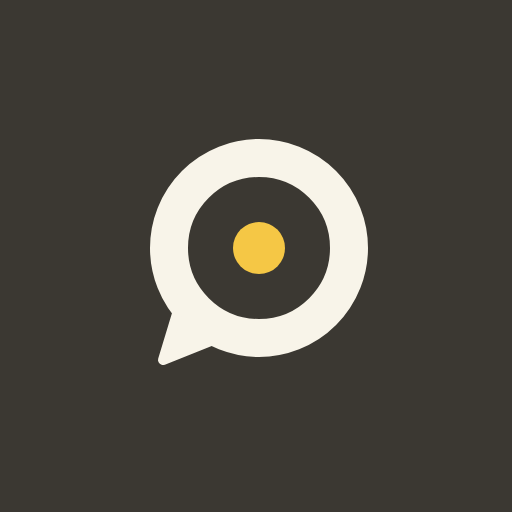
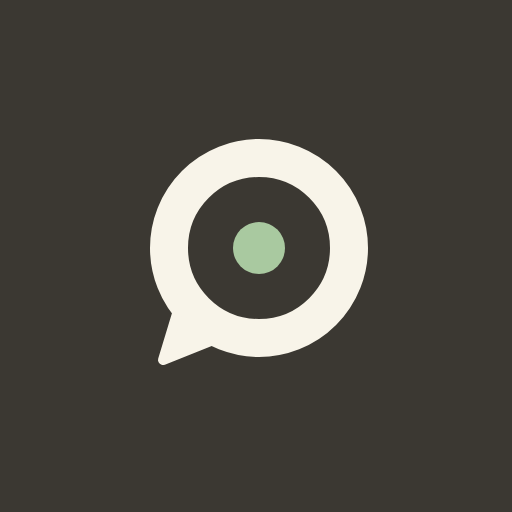
Sage green instead of gold as the accent colour
- Accent #7da36f on light, #a9c9a0 on dark (dark mode primary, buttons, filters, tab bar); label and banner tint #dce8d6
- Logo dot, app icon, favicon, maskable and apple-touch icons regenerated (tools/brand_recolor.py, tools/e2e/make_icons.py)
- Docs describe antracite, ivory and sage green

Claude-Session: https://claude.ai/code/session_01KvatykxBY2oTuZcjwLKiQ4

Changed region(s): [[0.4375, 0.4375, 0.5625, 0.5312]]

diff --git a/frontend/src/index.css b/frontend/src/index.css
@@ -69,9 +69,9 @@
   :root {
     --gl-bg: #faf7f0; --gl-surface: #f1ede2; --gl-chat-bg: #f4f0e5; --gl-chat-dots: #e2dac5; --gl-line: #ebe5d4; --gl-border: #e3dcc9;
     --gl-text: #2b2823; --gl-text-2: #5a554a; --gl-text-3: #6f695d; --gl-danger: #a9392b; --gl-danger-bg: #fdecea; --gl-online: #3f8f5f;
-    --gl-primary: #3b3832; --gl-on-primary: #f8f4e9; --gl-accent: #f5c745; --gl-on-accent: #2b2823;
-    --gl-bubble-out: #3b3832; --gl-bubble-out-fg: #f8f4e9; --gl-bubble-in: #fffdf8; --gl-label-bg: #f7edcb; --gl-label-fg: #5a4410;
-    --gl-switch-off: #d8d1bf; --gl-selected-row: #f6ecca;
+    --gl-primary: #3b3832; --gl-on-primary: #f8f4e9; --gl-accent: #7da36f; --gl-on-accent: #14200f;
+    --gl-bubble-out: #3b3832; --gl-bubble-out-fg: #f8f4e9; --gl-bubble-in: #fffdf8; --gl-label-bg: #dce8d6; --gl-label-fg: #2f4a28;
+    --gl-switch-off: #d8d1bf; --gl-selected-row: #e4eedf;
     --gl-r-bubble: 18px; --gl-r-bubble-tail: 6px; --gl-r-card: 18px; --gl-r-input: 14px; --gl-r-btn: 16px;
   
     --background: var(--gl-bg);
@@ -111,9 +111,9 @@
 :root.dark, :root[data-theme="dark"] {
     --gl-bg: #1c1a17; --gl-surface: #25221e; --gl-chat-bg: #201e1a; --gl-chat-dots: #2b2823; --gl-line: #2e2a24; --gl-border: #38342d;
     --gl-text: #ece6d8; --gl-text-2: #b6ae9d; --gl-text-3: #968f80;
-    --gl-primary: #f5c745; --gl-on-primary: #1c1a17;
-    --gl-bubble-out: #3d382d; --gl-bubble-out-fg: #f1ead9; --gl-bubble-in: #2a2723; --gl-label-bg: rgba(245, 199, 69, 0.16); --gl-label-fg: #f2e0a6;
-    --gl-accent: #f5c745; --gl-selected-row: #2c2818;
+    --gl-primary: #a9c9a0; --gl-on-primary: #14200f;
+    --gl-bubble-out: #3d382d; --gl-bubble-out-fg: #f1ead9; --gl-bubble-in: #2a2723; --gl-label-bg: rgba(169, 201, 160, 0.16); --gl-label-fg: #d3e6cd;
+    --gl-accent: #a9c9a0; --gl-selected-row: #232a20;
   }
 }
 

diff --git a/frontend/src/components/Logo.jsx b/frontend/src/components/Logo.jsx
@@ -16,7 +16,7 @@ export function LogoArrows({ className = "w-4 h-4", animate = false }) {
     <svg viewBox="0 0 24 24" className={`text-primary dark:text-primary shrink-0 ${className}`} aria-hidden="true">
       <circle cx="12" cy="11.2" r="9" fill="none" stroke="currentColor" strokeWidth="3.8" />
       <path d="M4.4 15.8 L2.4 22.4 L9.4 19.6 Z" fill="currentColor" stroke="currentColor" strokeWidth="1" strokeLinejoin="round" />
-      <circle className={`fill-[#f5c745] dark:fill-white ${animate ? "gl-pulse" : ""}`} cx="12" cy="11.2" r="2.6" />
+      <circle className={`fill-[#7da36f] dark:fill-white ${animate ? "gl-pulse" : ""}`} cx="12" cy="11.2" r="2.6" />
     </svg>
   );
 }

diff --git a/tools/brand_recolor.py b/tools/brand_recolor.py
@@ -1,4 +1,4 @@
-"""Recolours the Glotter brand files from the design handoff with the antracite / ivory / gold palette.
+"""Recolours the Glotter brand files from the design handoff with the antracite / ivory / sage-green palette.
 usage: python tools/brand_recolor.py
 Reads docs/brand/design_handoff_glotter/assets/*.svg (left untouched), writes docs/brand/glotter_v2/assets/*.svg
 and copies the files the site imports into frontend/src/assets/brand/."""
@@ -11,15 +11,15 @@ SRC = ROOT / "docs/brand/design_handoff_glotter/assets"
 OUT = ROOT / "docs/brand/glotter_v2/assets"
 SITE = ROOT / "frontend/src/assets/brand"
 
-LETTERS, GOLD, IVORY, ANTHRACITE, PAPER = "#2b2823", "#f5c745", "#ece6d8", "#3b3832", "#f8f4e9"
+LETTERS, SAGE, SAGE_LIGHT, IVORY, ANTHRACITE, PAPER = "#2b2823", "#7da36f", "#a9c9a0", "#ece6d8", "#3b3832", "#f8f4e9"  # SAGE on light, SAGE_LIGHT on dark
 MAPS = {  # file -> {old colour: new colour}
-    "glotter-logo.svg": {"#1d1a16": LETTERS, "#ffcc1e": GOLD},
-    "glotter-logo-su-scuro.svg": {"#ffcc1e": GOLD, "#ffffff": IVORY},
-    "mark.svg": {"#1d1a16": LETTERS, "#ffcc1e": GOLD},
-    "mark-dark.svg": {"#ffcc1e": GOLD, "#ffffff": IVORY},
-    "icon-app.svg": {"#1d1a16": ANTHRACITE, "#ffcc1e": GOLD, "#ffffff": PAPER},
-    "icon-maskable.svg": {"#1d1a16": ANTHRACITE, "#ffcc1e": GOLD, "#ffffff": PAPER},
-    "favicon.svg": {"#1d1a16": ANTHRACITE, "#ffcc1e": GOLD, "#ffffff": PAPER},
+    "glotter-logo.svg": {"#1d1a16": LETTERS, "#ffcc1e": SAGE},
+    "glotter-logo-su-scuro.svg": {"#ffcc1e": SAGE_LIGHT, "#ffffff": IVORY},
+    "mark.svg": {"#1d1a16": LETTERS, "#ffcc1e": SAGE},
+    "mark-dark.svg": {"#ffcc1e": SAGE_LIGHT, "#ffffff": IVORY},
+    "icon-app.svg": {"#1d1a16": ANTHRACITE, "#ffcc1e": SAGE_LIGHT, "#ffffff": PAPER},
+    "icon-maskable.svg": {"#1d1a16": ANTHRACITE, "#ffcc1e": SAGE_LIGHT, "#ffffff": PAPER},
+    "favicon.svg": {"#1d1a16": ANTHRACITE, "#ffcc1e": SAGE_LIGHT, "#ffffff": PAPER},
 }
 
 

diff --git a/docs/PROGETTO.md b/docs/PROGETTO.md
@@ -9,7 +9,7 @@ Chat in tempo reale in cui **ognuno scrive e legge nella propria lingua**: un mo
 
 - **Proprietario:** Andrea Babetto (Shampissima, agenzia di Amazon PPC). Primo utente di prova: **Hamad** (agenzia, India). Parla italiano, preferisce istruzioni brevi, passo per passo, con screenshot.
 - **Stato:** in produzione, **beta chiusa su invito** (registrazione con codice `INVITE_CODE`). Usata da Andrea e Hamad.
-- **Nome:** **Glotter** (scelto da Andrea il 22/10/2026): "glot" dal greco *glotta* (lingua) + "-ter" (chi fa qualcosa). Interfaccia già aggiornata (logo, colori antracite, avorio e oro (aggiornati il 23/10/2026 sul ramo `design-refresh`, partendo dal design nero e giallo), carattere Onest, 41 lingue) con il design in `docs/brand/design_handoff_glotter/`. Marchio NON ancora verificato: TMview trova "GLOTTER" registrato in Messico (classe 25) e "PolyGlotterz" in Francia (classe 38, telecomunicazioni); serve un parere di un consulente in marchi (EUIPO, WIPO, UIBM). Domini: glotter.com occupato; alla verifica del 22/10 risultavano liberi .it .net .biz .eu .me .tel .tv (da confermare dal registrar prima di comprarli). Repong è stato il nome precedente: resta solo nei documenti di storia (`docs/brand/design_handoff_repong/`).
+- **Nome:** **Glotter** (scelto da Andrea il 22/10/2026): "glot" dal greco *glotta* (lingua) + "-ter" (chi fa qualcosa). Interfaccia già aggiornata (logo, colori antracite, avorio e verde salvia (aggiornati il 23/10/2026 sul ramo `design-refresh`, partendo dal design nero e giallo), carattere Onest, 41 lingue) con il design in `docs/brand/design_handoff_glotter/`. Marchio NON ancora verificato: TMview trova "GLOTTER" registrato in Messico (classe 25) e "PolyGlotterz" in Francia (classe 38, telecomunicazioni); serve un parere di un consulente in marchi (EUIPO, WIPO, UIBM). Domini: glotter.com occupato; alla verifica del 22/10 risultavano liberi .it .net .biz .eu .me .tel .tv (da confermare dal registrar prima di comprarli). Repong è stato il nome precedente: resta solo nei documenti di storia (`docs/brand/design_handoff_repong/`).
 
 ## 2. Dove sta tutto
 
@@ -50,7 +50,7 @@ Su `lingua-api` (Render → Environment). Elenco commentato in `backend/.env.exa
 - `src/components/chat/` — `Sidebar` (elenco, tab Chats/Groups/Profile), `ChatWindow`, `MessageBubble`, `MessageActions` (menu al tocco), `ProfilePanel`, `InfoPanel`, `NewChatDialog`, `PushPrompt`.
 - `src/hooks/useAppViewport.js` — tiene ferma l'intestazione quando si apre la tastiera su iPhone.
 - `src/lib/push.js` + `public/sw.js` — notifiche. `public/manifest.json` + icone — installazione.
-- Font: **Onest** (testo e logo) e **Noto Sans Arabic** per le lingue da destra a sinistra, inclusi nel sito. Colori: token Glotter in `src/index.css` (antracite, avorio e oro `#f5c745`, neutri caldi; modalità scura con primario oro), partiti da `docs/brand/design_handoff_glotter/tokens.css`; i file del marchio si rigenerano con `tools/brand_recolor.py` (in `docs/brand/glotter_v2/assets`). Sfondo chat: carta calda con un puntino ogni 18px (solo CSS). Logo: `components/Logo.jsx` (scritta + frecce; `LogoArrows` si anima mentre traduce). Icone: `tools/e2e/make_icons.py`.
+- Font: **Onest** (testo e logo) e **Noto Sans Arabic** per le lingue da destra a sinistra, inclusi nel sito. Colori: token Glotter in `src/index.css` (antracite, avorio e verde salvia `#7da36f`, neutri caldi; modalità scura con primario salvia chiaro `#a9c9a0`), partiti da `docs/brand/design_handoff_glotter/tokens.css`; i file del marchio si rigenerano con `tools/brand_recolor.py` (in `docs/brand/glotter_v2/assets`). Sfondo chat: carta calda con un puntino ogni 18px (solo CSS). Logo: `components/Logo.jsx` (scritta + frecce; `LogoArrows` si anima mentre traduce). Icone: `tools/e2e/make_icons.py`.
 
 **Dati (collezioni Mongo):** `users`, `chats`, `messages` (originale + traduzioni per lingua + traduzioni per utente con glossario, `reactions`, `deleted_for`), `contacts`, `files`, `translation_cache`, `translation_logs`, `reports`, `settings` (chiavi VAPID create da sole), `push_subs`.
 
@@ -67,7 +67,7 @@ Chat 1:1 e gruppi; traduzione automatica per ognuno (originale sempre recuperabi
 - **Lingua = quella del profilo** (non c'è riconoscimento automatico della lingua del testo).
 - Un solo tono neutro (la scelta formale/informale è stata tolta; il motore la sa ancora fare).
 - Beta chiusa su invito; vocali spenti ("solo testo al momento").
-- Aspetto: terracotta e sabbia (Repong) sostituiti dal design Glotter (prima nero e giallo, poi antracite, avorio e oro; `docs/brand/design_handoff_glotter/` e `docs/brand/glotter_v2/`). Sotto i propri messaggi, nelle chat a due, "{nome} legge in {lingua}" mostra il testo tradotto per l'altra persona.
+- Aspetto: terracotta e sabbia (Repong) sostituiti dal design Glotter (prima nero e giallo, poi antracite, avorio e verde salvia; `docs/brand/design_handoff_glotter/` e `docs/brand/glotter_v2/`). Sotto i propri messaggi, nelle chat a due, "{nome} legge in {lingua}" mostra il testo tradotto per l'altra persona.
 - Notifiche: il server manda la push solo a chi non è collegato da più di 60 secondi (ping ogni 20 s dal sito); gli indirizzi push ammessi sono solo quelli dei browser principali (il server si collega a quell'indirizzo).
 
 ## 7. Sicurezza e limiti noti
@@ -116,7 +116,7 @@ Limiti: limiti anti-abuso **in memoria** (un solo processo; con più istanze ser
 
 
 ## Novità del 23/10/2026 (ramo `design-refresh`)
-- Tavolozza antracite, avorio e oro; avatar senza foto in sei colori morbidi scelti dal nome (`src/lib/avatar.js`).
+- Tavolozza antracite, avorio e verde salvia (provato prima l'oro, scartato); avatar senza foto in sei colori morbidi scelti dal nome (`src/lib/avatar.js`).
 - Elenco chat: filtri Tutte / Non lette; i gruppi si vedono anche tra tutte le chat.
 - Chat fissate (max 5, private, salvate sul server): `POST /api/chats/{id}/pin` e `/unpin`; nell'elenco compaiono sotto "Fissate". Si fissa con pressione lunga (o clic destro) sulla chat.
 - Scheda contatto: pulsanti rotondi Cerca / Blocca / Segnala e schede Media, File, Link (dai messaggi già caricati: gli ultimi 50 più quelli scorsi).

diff --git a/docs/skill/glott/SKILL.md b/docs/skill/glott/SKILL.md
@@ -29,8 +29,8 @@ In produzione e funzionante: chat 1:1 e gruppi, traduzione automatica, glossario
 4. Dì sempre cosa **non** hai potuto provare (iPhone vero, notifiche reali, Safari).
 
 ## Decisioni da ricordare
-- Nome: **Glotter** (scelto da Andrea il 22/10/2026): "glot" dal greco *glotta* (lingua) + "-ter" (chi fa qualcosa). Interfaccia già aggiornata (logo, colori antracite, avorio e oro (aggiornati il 23/10/2026 sul ramo `design-refresh`, partendo dal design nero e giallo), carattere Onest, 41 lingue) con il design in `docs/brand/design_handoff_glotter/`. Marchio NON ancora verificato: TMview trova "GLOTTER" registrato in Messico (classe 25) e "PolyGlotterz" in Francia (classe 38, telecomunicazioni); serve un parere di un consulente in marchi (EUIPO, WIPO, UIBM). Domini: glotter.com occupato; alla verifica del 22/10 risultavano liberi .it .net .biz .eu .me .tel .tv (da confermare dal registrar prima di comprarli). Repong è stato il nome precedente: resta solo nei documenti di storia (`docs/brand/design_handoff_repong/`).
-- Aspetto (marchio Glotter, antracite, avorio e oro): token in `frontend/src/index.css` (partiti da `docs/brand/design_handoff_glotter/tokens.css`), font **Onest** + Noto Sans Arabic/Devanagari/SC, logo `frontend/src/components/Logo.jsx` (file del design), icone generate con `tools/e2e/make_icons.py`, sfondo chat a puntini.
+- Nome: **Glotter** (scelto da Andrea il 22/10/2026): "glot" dal greco *glotta* (lingua) + "-ter" (chi fa qualcosa). Interfaccia già aggiornata (logo, colori antracite, avorio e verde salvia (aggiornati il 23/10/2026 sul ramo `design-refresh`, partendo dal design nero e giallo), carattere Onest, 41 lingue) con il design in `docs/brand/design_handoff_glotter/`. Marchio NON ancora verificato: TMview trova "GLOTTER" registrato in Messico (classe 25) e "PolyGlotterz" in Francia (classe 38, telecomunicazioni); serve un parere di un consulente in marchi (EUIPO, WIPO, UIBM). Domini: glotter.com occupato; alla verifica del 22/10 risultavano liberi .it .net .biz .eu .me .tel .tv (da confermare dal registrar prima di comprarli). Repong è stato il nome precedente: resta solo nei documenti di storia (`docs/brand/design_handoff_repong/`).
+- Aspetto (marchio Glotter, antracite, avorio e verde salvia): token in `frontend/src/index.css` (partiti da `docs/brand/design_handoff_glotter/tokens.css`), font **Onest** + Noto Sans Arabic/Devanagari/SC, logo `frontend/src/components/Logo.jsx` (file del design), icone generate con `tools/e2e/make_icons.py`, sfondo chat a puntini.
 - Un solo tono di traduzione (neutro). Stessa lingua → nessuna traduzione, nessun costo (~0,56 $ ogni 1.000 messaggi tradotti, stima). La lingua è quella del profilo (nessun riconoscimento automatico).
 - Strategia: partire da agenzie e e-commerce con collaboratori all'estero; crescita via link d'invito; Fiverr/Upwork limitano i contatti fuori piattaforma (non usarli come canale). Per ora uso interno Andrea–Hamad.
 

diff --git a/CLAUDE.md b/CLAUDE.md
@@ -11,7 +11,7 @@ Chat in tempo reale in cui ognuno scrive e legge nella propria lingua, tradotta 
 - Lavora su un ramo, **non aprire pull request se non richiesto**, e **unisci a `main` solo quando Andrea dice "unisci"**. Ogni unione va seguita da istruzioni chiare su cosa ripubblicare su Render (`lingua-web` e/o `lingua-api`) e sul telefono.
 - Prima di dire "fatto": `cd backend && pytest`, `cd frontend && yarn build`, e provalo nel browser simulato (`tools/README.md`). Dì chiaramente cosa **non** hai potuto provare (iPhone vero, notifiche reali).
 - Non dire "disponibile" per un dominio o un nome senza averlo controllato; la ricerca web non è una verifica legale sul marchio.
-- Il nome è **Glotter** (scelto da Andrea il 22/10/2026): "glot" dal greco *glotta* (lingua) + "-ter" (chi fa qualcosa). Interfaccia già aggiornata (logo, colori antracite, avorio e oro (aggiornati il 23/10/2026 sul ramo `design-refresh`, partendo dal design nero e giallo), carattere Onest, 41 lingue) con il design in `docs/brand/design_handoff_glotter/`. Marchio NON ancora verificato: TMview trova "GLOTTER" registrato in Messico (classe 25) e "PolyGlotterz" in Francia (classe 38, telecomunicazioni); serve un parere di un consulente in marchi (EUIPO, WIPO, UIBM). Domini: glotter.com occupato; alla verifica del 22/10 risultavano liberi .it .net .biz .eu .me .tel .tv (da confermare dal registrar prima di comprarli). Repong è stato il nome precedente: resta solo nei documenti di storia (`docs/brand/design_handoff_repong/`).
+- Il nome è **Glotter** (scelto da Andrea il 22/10/2026): "glot" dal greco *glotta* (lingua) + "-ter" (chi fa qualcosa). Interfaccia già aggiornata (logo, colori antracite, avorio e verde salvia (aggiornati il 23/10/2026 sul ramo `design-refresh`, partendo dal design nero e giallo), carattere Onest, 41 lingue) con il design in `docs/brand/design_handoff_glotter/`. Marchio NON ancora verificato: TMview trova "GLOTTER" registrato in Messico (classe 25) e "PolyGlotterz" in Francia (classe 38, telecomunicazioni); serve un parere di un consulente in marchi (EUIPO, WIPO, UIBM). Domini: glotter.com occupato; alla verifica del 22/10 risultavano liberi .it .net .biz .eu .me .tel .tv (da confermare dal registrar prima di comprarli). Repong è stato il nome precedente: resta solo nei documenti di storia (`docs/brand/design_handoff_repong/`).
 
 ## Comandi
 - Test server: `cd backend && pip install -r requirements-dev.txt && pytest`
